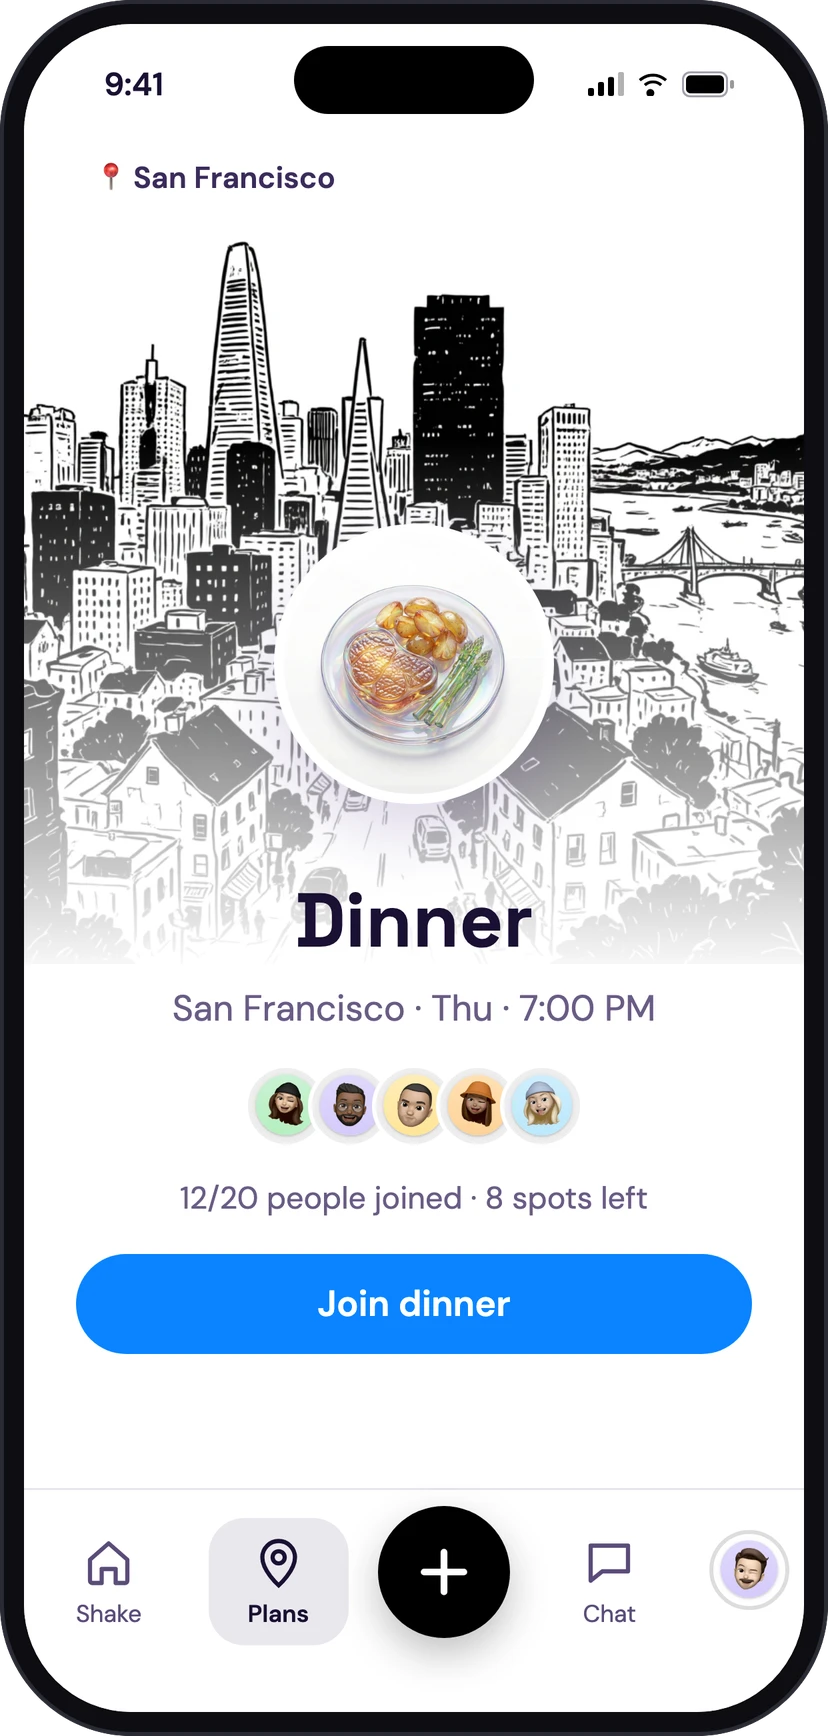
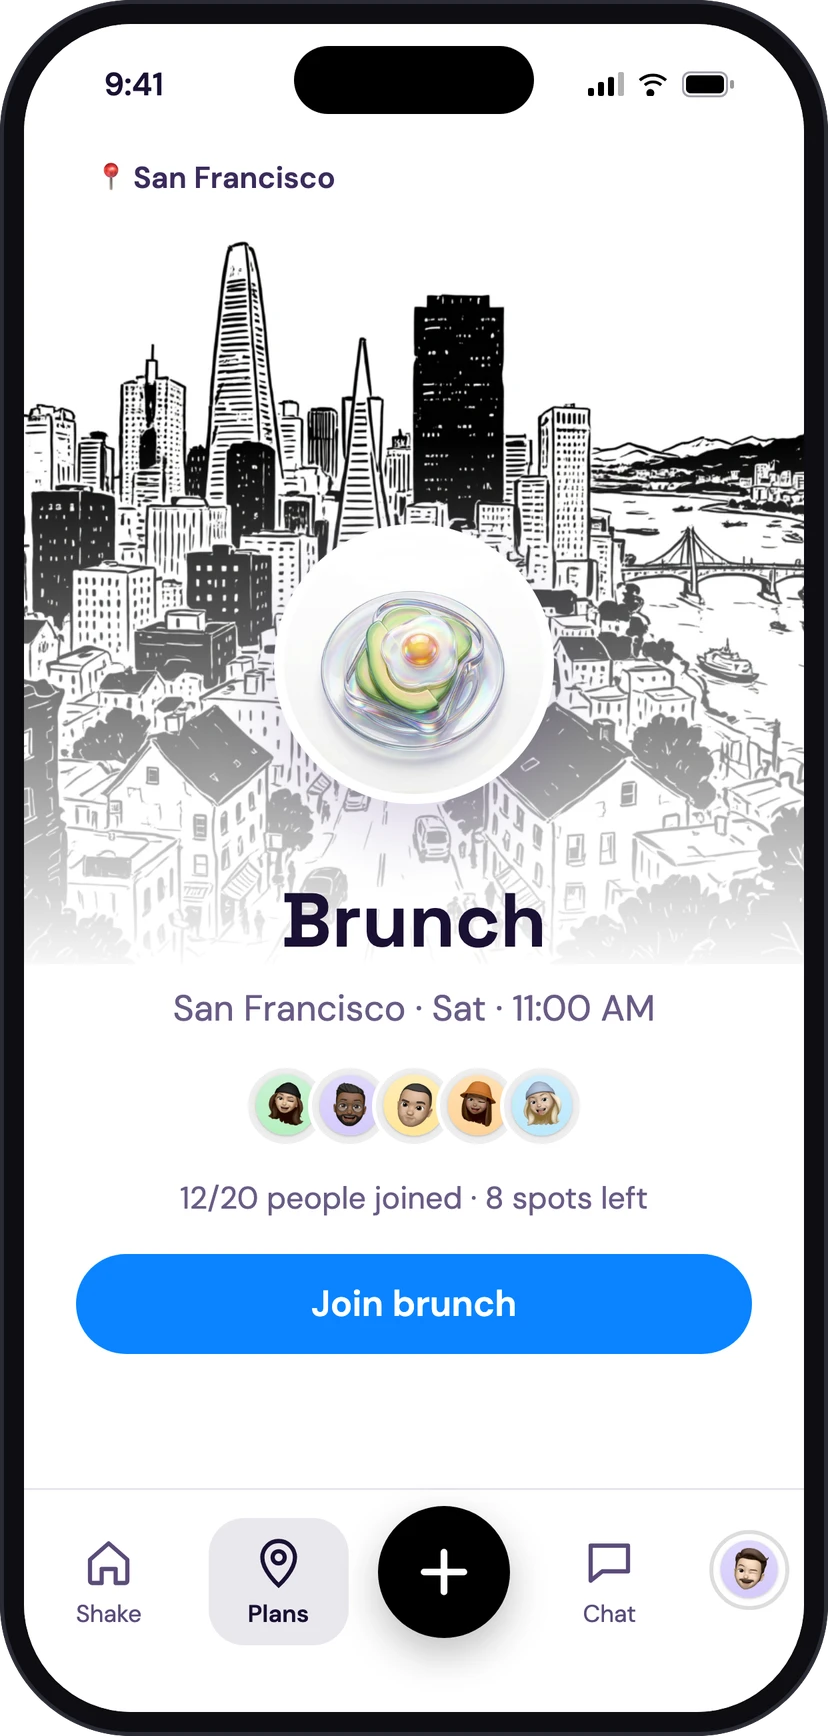
App previews: brunch card in mockup 2, handwritten captions (a different font per phone)

diff --git a/index.html b/index.html
@@ -10,6 +10,7 @@
 <link rel="apple-touch-icon" sizes="180x180" href="/apple-touch-icon.png">
 <link rel="icon" type="image/png" sizes="192x192" href="/icon-192.png">
 <link href="https://fonts.googleapis.com/css2?family=Syne:wght@400;500;600;700;800&family=DM+Sans:ital,wght@0,300;0,400;0,500;1,300&family=Sue+Ellen+Francisco&family=Fraunces:ital,wght@0,400;0,500;0,600;0,700;0,800;1,400;1,500;1,600&display=swap" rel="stylesheet">
+<link href="https://fonts.googleapis.com/css2?family=Caveat:wght@600;700&family=Permanent+Marker&family=Reenie+Beanie&family=Kaushan+Script&family=Shadows+Into+Light+Two&family=Sue+Ellen+Francisco&display=swap" rel="stylesheet">
 <style>
   *, *::before, *::after { box-sizing: border-box; margin: 0; padding: 0; }
   html { overflow-x: hidden; }
@@ -36,6 +37,13 @@
   .app-previews-row img { width: 100%; height: auto; display: block; filter: drop-shadow(0 22px 36px rgba(60,30,120,.22)); }
   .app-previews-row figcaption { text-align: center; margin-top: 10px; font-weight: 600; font-size: .9rem; color: #1a1033; }
   @media (min-width: 900px) { .app-previews-row { display: flex; justify-content: center; gap: 1.4%; padding: 8px 3% 28px; } .app-previews-row figure { flex: 1 1 0; min-width: 0; width: auto; max-width: 300px; } .app-previews-row figcaption { font-size: .85rem; } }
+  .app-previews-row figcaption { font-weight: 400; line-height: 1.05; letter-spacing: .01em; }
+  .app-previews-row figure:nth-child(1) figcaption { font-family: 'Caveat', cursive; font-weight: 700; font-size: 1.7rem; }
+  .app-previews-row figure:nth-child(2) figcaption { font-family: 'Sue Ellen Francisco', cursive; font-size: 1.85rem; }
+  .app-previews-row figure:nth-child(3) figcaption { font-family: 'Permanent Marker', cursive; font-size: 1.25rem; }
+  .app-previews-row figure:nth-child(4) figcaption { font-family: 'Reenie Beanie', cursive; font-size: 2.1rem; }
+  .app-previews-row figure:nth-child(5) figcaption { font-family: 'Kaushan Script', cursive; font-size: 1.6rem; }
+  .app-previews-row figure:nth-child(6) figcaption { font-family: 'Shadows Into Light Two', cursive; font-size: 1.45rem; font-weight: 400; }
 
   /* Scroll Layer Animation Styles */
   .scroll-layer {
@@ -1342,11 +1350,11 @@
   <div class="app-previews-layer">
     <div class="app-previews-row">
       <figure><img src="previews/home.webp" alt="Join Thursday dinner in Los Angeles in the SHAKE app" width="828" height="1736"><figcaption>Say yes to dinner</figcaption></figure>
-      <figure><img src="previews/feed.webp" alt="San Francisco dinner card with a hand-drawn skyline" width="828" height="1736"><figcaption>Every city has its own look</figcaption></figure>
+      <figure><img src="previews/feed.webp" alt="San Francisco brunch card with a hand-drawn skyline" width="828" height="1736"><figcaption>Every city has its own look</figcaption></figure>
       <figure><img src="previews/plans.webp" alt="Plans in Los Angeles and San Francisco" width="828" height="1736"><figcaption>See what's on</figcaption></figure>
       <figure><img src="previews/match.webp" alt="Shake to match with someone who shares your interests" width="828" height="1736"><figcaption>Shake to match</figcaption></figure>
       <figure><img src="previews/joined.webp" alt="You're in! Dinner confirmation" width="828" height="1736"><figcaption>You're in!</figcaption></figure>
-      <figure><img src="previews/chat.webp" alt="Group chat with a shared location map card" width="828" height="1736"><figcaption>Chat, share your location, find each other</figcaption></figure>
+      <figure><img src="previews/chat.webp" alt="Group chat with a shared location map card" width="828" height="1736"><figcaption>Chat and share your spot</figcaption></figure>
     </div>
   </div>
 </section>
